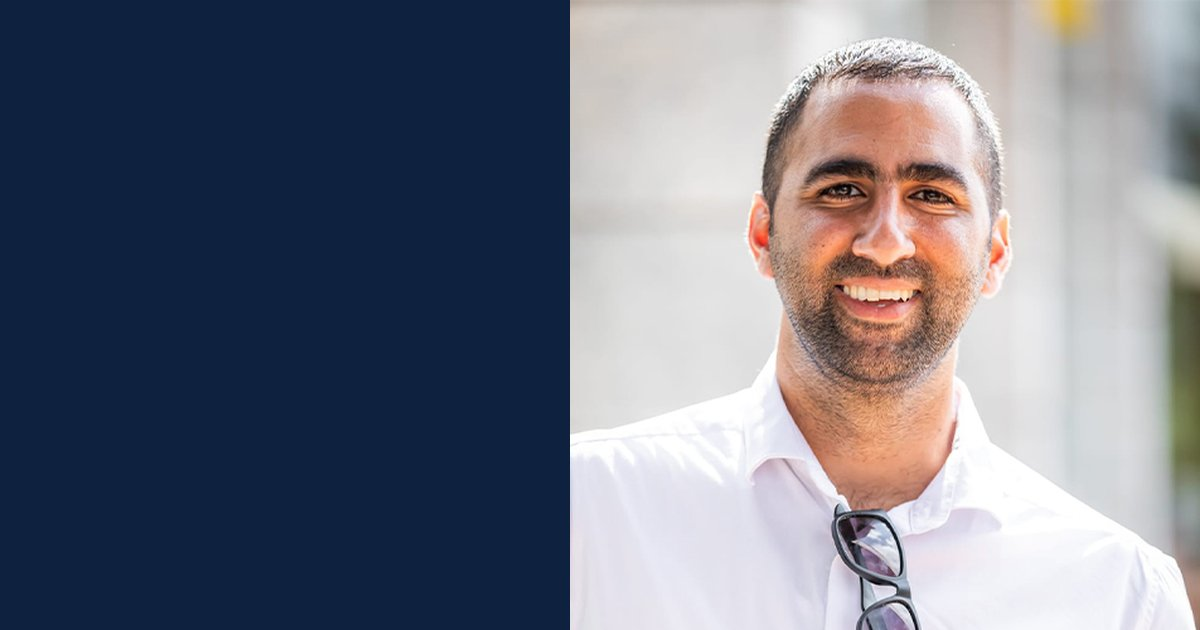
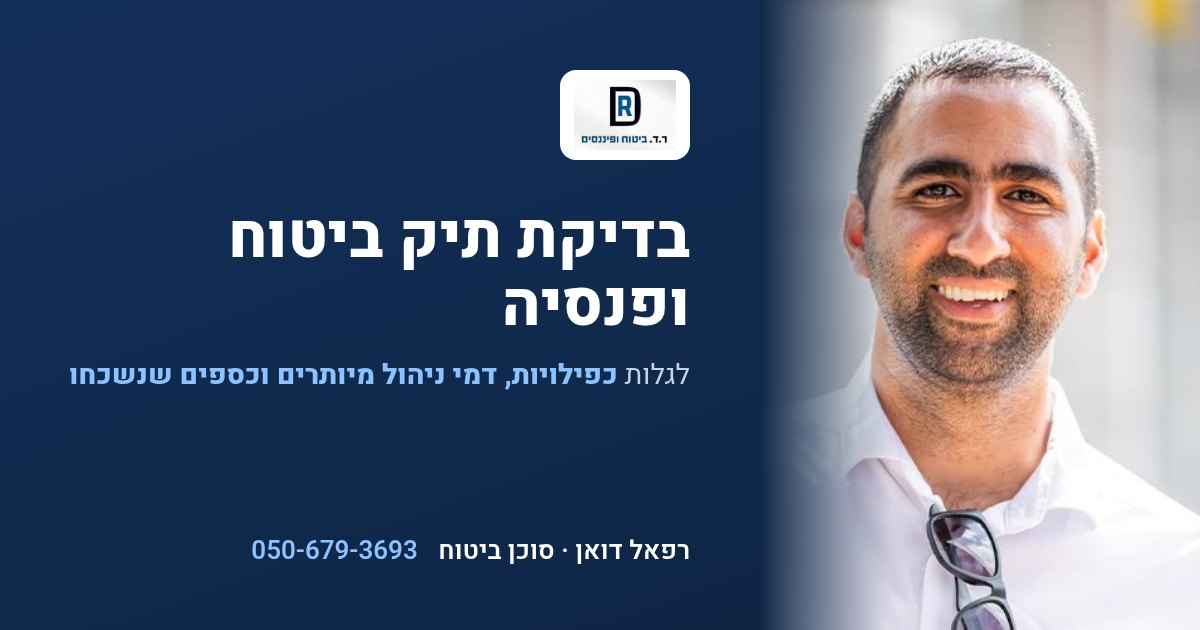
v5: offer-led hero, single primary CTA, grouped services, shorter FAQ, a11y + perf fixes

diff --git a/index.html b/index.html
@@ -4,7 +4,7 @@
 <meta charset="utf-8">
 <meta name="viewport" content="width=device-width, initial-scale=1, viewport-fit=cover">
 <meta name="robots" content="noindex, nofollow">
-<title>רפאל דואן | ר.ד. ביטוח ופיננסים – ביטוח, פנסיה והשקעות</title>
+<title>בדיקת תיק ביטוח ופנסיה | רפאל דואן – ר.ד. ביטוח ופיננסים</title>
 <meta name="description" content="רפאל דואן, ר.ד. ביטוח ופיננסים – סוכן ביטוח, מנהל סיכונים ופיננסים עם ניסיון של למעלה מעשור. ביטוחי בריאות וחיים, פנסיה, גמל, השתלמות, השקעות ואיתור כספי פנסיה. אור יהודה.">
 <meta name="theme-color" content="#0d2340">
 <link rel="canonical" href="https://xbycomm.github.io/rafi-duan/">
@@ -20,8 +20,8 @@
 <link rel="apple-touch-icon" href="assets/icon-192.png">
 <link rel="preconnect" href="https://fonts.googleapis.com">
 <link rel="preconnect" href="https://fonts.gstatic.com" crossorigin>
-<link href="https://fonts.googleapis.com/css2?family=Heebo:wght@300;400;500;600;700;800&display=swap" rel="stylesheet">
-<link rel="stylesheet" href="assets/style.css?v=8">
+<link href="https://fonts.googleapis.com/css2?family=Heebo:wght@400;600;800&display=swap" rel="stylesheet">
+<link rel="stylesheet" href="assets/style.css?v=9">
 <script>document.documentElement.classList.add('js')</script>
 <script type="application/ld+json">
 {"@context":"https://schema.org","@type":"InsuranceAgency","name":"ר.ד. ביטוח ופיננסים – רפאל דואן","description":"סוכן ביטוח, מנהל סיכונים ופיננסים. ביטוחי בריאות, חיים ומחלות קשות, פנסיה, גמל, השתלמות והשקעות.","url":"https://xbycomm.github.io/rafi-duan/","logo":"https://xbycomm.github.io/rafi-duan/assets/logo-rd.jpg","image":"https://xbycomm.github.io/rafi-duan/assets/rafi-duan.jpg","telephone":"+972-50-679-3693","email":"rafiduan@gmail.com","address":{"@type":"PostalAddress","streetAddress":"צאלון 5","addressLocality":"אור יהודה","addressCountry":"IL"},"openingHoursSpecification":[{"@type":"OpeningHoursSpecification","dayOfWeek":["Sunday","Monday","Tuesday","Wednesday","Thursday"],"opens":"09:00","closes":"17:00"},{"@type":"OpeningHoursSpecification","dayOfWeek":"Friday","opens":"09:00","closes":"13:00"}],"sameAs":["https://www.facebook.com/rafi.duan"],"founder":{"@type":"Person","name":"רפאל דואן","jobTitle":"סוכן ביטוח, מנהל סיכונים ופיננסים"}}
@@ -54,23 +54,15 @@
   <symbol id="s-find" viewBox="0 0 32 32"><circle cx="14" cy="14" r="8.5" fill="none" stroke="currentColor" stroke-width="1.8"/><path fill="none" stroke="currentColor" stroke-width="2.2" stroke-linecap="round" d="m20.5 20.5 6 6"/><path fill="none" stroke="currentColor" stroke-width="1.6" stroke-linecap="round" d="M14 9.5v9M11.5 11.5c0-1.2 1.1-2 2.5-2s2.5.8 2.5 2-1.1 1.6-2.5 2-2.5.8-2.5 2 1.1 2 2.5 2 2.5-.8 2.5-2"/></symbol>
 </svg>
 
-<div class="topbar">
-  <div class="wrap topbar-in">
-    <span><svg><use href="#i-clock"/></svg>א׳–ה׳ <bdi dir="ltr">09:00–17:00</bdi> · ו׳ <bdi dir="ltr">09:00–13:00</bdi></span>
-    <span class="tb-hide"><svg><use href="#i-pin"/></svg>צאלון 5, אור יהודה</span>
-    <a href="mailto:rafiduan@gmail.com" class="tb-hide"><svg><use href="#i-mail"/></svg>rafiduan@gmail.com</a>
-  </div>
-</div>
-
 <header class="hdr" id="hdr">
   <div class="wrap hdr-in">
-    <a class="brand" href="#top" aria-label="ר.ד. ביטוח ופיננסים – לראש העמוד"><img src="assets/logo-rd.jpg" width="300" height="205" alt="לוגו ר.ד. ביטוח ופיננסים"></a>
+    <a class="brand" href="#top" aria-label="ר.ד. ביטוח ופיננסים – לראש העמוד"><picture><source srcset="assets/logo-rd-h.webp" type="image/webp"><img src="assets/logo-rd-h.jpg" width="152" height="104" alt="לוגו ר.ד. ביטוח ופיננסים"></picture></a>
     <nav class="nav" aria-label="ניווט ראשי">
-      <a href="#services">תחומי פעילות</a><a href="#check">בדיקת תיק</a><a href="#about">אודות</a><a href="#how">איך זה עובד</a><a href="#words">המלצות</a><a href="#faq">שאלות נפוצות</a>
+      <a href="#services">תחומי פעילות</a><a href="#about">אודות</a><a href="#how">איך זה עובד</a><a href="#words">המלצות</a><a href="#faq">שאלות</a><a href="#contact">צור קשר</a>
     </nav>
     <div class="hdr-cta">
-      <a class="hdr-phone" href="tel:0506793693"><svg><use href="#i-phone"/></svg><span><small>התקשרו עכשיו</small><b dir="ltr">050-679-3693</b></span></a>
-      <a class="btn btn-wa btn-sm wa" data-msg="רפאל שלום, הגעתי מהאתר ואשמח לקבל ייעוץ מקצועי" href="https://wa.me/972506793693" target="_blank" rel="noopener"><svg><use href="#i-wa"/></svg>וואטסאפ</a>
+      <a class="hdr-phone" href="tel:0506793693" aria-label="התקשרו לרפאל: 050-679-3693"><svg><use href="#i-phone"/></svg><span><small>התקשרו עכשיו</small><b dir="ltr">050-679-3693</b></span></a>
+      <a class="btn btn-wa btn-sm wa" data-msg="רפאל שלום, הגעתי מהאתר ואשמח לתאם בדיקת תיק ביטוח ופנסיה" href="https://wa.me/972506793693" target="_blank" rel="noopener"><svg><use href="#i-wa"/></svg>בדיקת תיק</a>
     </div>
   </div>
 </header>
@@ -81,17 +73,12 @@
   <div class="hero-bg" aria-hidden="true"></div>
   <div class="wrap hero-in">
     <div class="hero-copy">
-      <p class="kicker reveal"><span class="dot"></span>ר.ד. ביטוח ופיננסים · סוכן ביטוח ופנסיה</p>
-      <h1 class="reveal d1">הביטוח והפנסיה שלכם,<br><span class="hl">בידיים מקצועיות.</span></h1>
-      <p class="lead reveal d2">אני <strong>רפאל דואן</strong>, סוכן ביטוח, מנהל סיכונים ופיננסים. אני עובר איתכם על כל התמונה – ביטוחים, פנסיה, חיסכון והשקעות – ובונה מעטפת שמתאימה בדיוק למשפחה שלכם.</p>
-      <ul class="ticks reveal d2">
-        <li><svg><use href="#i-check"/></svg>בדיקת כפילויות ופערים בביטוחים הקיימים</li>
-        <li><svg><use href="#i-check"/></svg>איתור כספי פנסיה שנשכחו בקופות</li>
-        <li><svg><use href="#i-check"/></svg>ליווי אישי ושירות זמין לאורך הדרך</li>
-      </ul>
+      <p class="kicker reveal"><span class="dot"></span>רפאל דואן · ר.ד. ביטוח ופיננסים</p>
+      <h1 class="reveal d1">בדיקת תיק ביטוח ופנסיה<span class="h1-sub">כדי לגלות <span class="hl">כפילויות, דמי ניהול מיותרים וכספים שנשכחו.</span></span></h1>
+      <p class="lead reveal d2">אני <strong>רפאל דואן</strong>, סוכן ביטוח, מנהל סיכונים ופיננסים, עם ניסיון של למעלה מעשור ורישיון משרד האוצר לשיווק פנסיוני. עוברים יחד על הביטוחים והחסכונות שלכם – ומקבלים תמונה ברורה.</p>
       <div class="ctas reveal d3">
-        <a class="btn btn-primary btn-lg wa" data-msg="רפאל שלום, הגעתי מהאתר ואשמח לבדיקת תיק ביטוח ופנסיה" href="https://wa.me/972506793693" target="_blank" rel="noopener"><svg><use href="#i-wa"/></svg>לבדיקת התיק שלי</a>
-        <a class="btn btn-ghost btn-lg" href="tel:0506793693"><svg><use href="#i-phone"/></svg><span dir="ltr">050-679-3693</span></a>
+        <a class="btn btn-wa btn-lg wa" data-msg="רפאל שלום, הגעתי מהאתר ואשמח לתאם בדיקת תיק ביטוח ופנסיה" href="https://wa.me/972506793693" target="_blank" rel="noopener"><svg><use href="#i-wa"/></svg>תיאום בדיקת תיק בוואטסאפ</a>
+        <a class="btn btn-ghost btn-lg" href="tel:0506793693" aria-label="או חייגו: 050-679-3693"><svg><use href="#i-phone"/></svg><span dir="ltr">050-679-3693</span></a>
       </div>
     </div>
 
@@ -99,27 +86,24 @@
       <div class="photo">
         <picture><source srcset="assets/rafi-duan.webp" type="image/webp"><img src="assets/rafi-duan.jpg" width="500" height="500" alt="רפאל דואן, סוכן ביטוח ופיננסים" fetchpriority="high"></picture>
       </div>
-      <div class="badge b1"><svg><use href="#i-award"/></svg><div><b>10+ שנים</b><small>ניסיון בענף</small></div></div>
-      <div class="badge b2"><svg><use href="#i-shield"/></svg><div><b>בעל רישיון</b><small>משרד האוצר · שיווק פנסיוני</small></div></div>
-      <form class="quick" id="quickForm" novalidate>
-        <p class="quick-t">דברו איתי – אחזור אליכם</p>
-        <div class="quick-row">
-          <label class="sr" for="qName">שם</label><input id="qName" name="name" placeholder="שם" autocomplete="name" required>
-          <label class="sr" for="qPhone">טלפון</label><input id="qPhone" name="phone" type="tel" inputmode="tel" placeholder="טלפון" autocomplete="tel" required>
-        </div>
-        <button class="btn btn-primary" type="submit"><svg><use href="#i-wa"/></svg>שלחו בוואטסאפ</button>
-        <p class="ferr" role="alert" hidden>נא למלא שם וטלפון תקין.</p>
-      </form>
+      <div class="report" aria-label="מה נבדק בבדיקת התיק">
+        <div class="report-h"><svg><use href="#i-shield"/></svg><div><b>בדיקת תיק</b><small>מה עוברים עליו יחד</small></div></div>
+        <ul>
+          <li><span class="tick"><svg><use href="#i-check"/></svg></span>ביטוחים כפולים</li>
+          <li><span class="tick"><svg><use href="#i-check"/></svg></span>פערים בכיסוי</li>
+          <li><span class="tick"><svg><use href="#i-check"/></svg></span>דמי ניהול בקופות</li>
+          <li><span class="tick"><svg><use href="#i-check"/></svg></span>קופות וכספים שנשכחו</li>
+        </ul>
+      </div>
     </div>
   </div>
 </section>
 
-<section class="trust" aria-label="למה לבחור ברפאל">
+<section class="trust" aria-label="ניסיון והסמכות">
   <div class="wrap trust-in">
-    <div class="t-item reveal"><span class="t-ic"><svg><use href="#i-award"/></svg></span><div><b dir="ltr">10+</b><span>שנות ניסיון בביטוח, פנסיה וניהול סיכונים</span></div></div>
-    <div class="t-item reveal d1"><span class="t-ic"><svg><use href="#i-shield"/></svg></span><div><b>רישיון</b><span>משרד האוצר לשיווק פנסיוני</span></div></div>
-    <div class="t-item reveal d2"><span class="t-ic"><svg><use href="#i-cap"/></svg></span><div><b>B.A</b><span>מנהל עסקים, התמחות במימון</span></div></div>
-    <div class="t-item reveal d3"><span class="t-ic"><svg><use href="#i-user"/></svg></span><div><b>1:1</b><span>יחס אישי – מטפל אחד בכל התיק</span></div></div>
+    <div class="t-item"><span class="t-ic"><svg><use href="#i-award"/></svg></span><div><b dir="ltr">10+</b><span>שנות ניסיון בענף הביטוח</span></div></div>
+    <div class="t-item"><span class="t-ic"><svg><use href="#i-shield"/></svg></span><div><b>רישיון</b><span>משרד האוצר לשיווק פנסיוני</span></div></div>
+    <div class="t-item"><span class="t-ic"><svg><use href="#i-cap"/></svg></span><div><b>B.A</b><span>מנהל עסקים, התמחות במימון</span></div></div>
   </div>
 </section>
 
@@ -127,38 +111,15 @@
   <div class="wrap">
     <div class="sec-head reveal">
       <p class="eyebrow">תחומי פעילות</p>
-      <h2>כל מה שהמשפחה שלכם צריכה, <span class="hl">במקום אחד</span></h2>
-      <p class="sub">ביטוח, פנסיה, חיסכון והשקעות – מטפל אחד שמכיר את כל התמונה ומתאים כל רכיב לצרכים שלכם.</p>
+      <h2>ביטוח, פנסיה והשקעות – <span class="hl">אצל אותו סוכן</span></h2>
     </div>
-    <div class="cards">
-      <article class="card reveal"><span class="ic"><svg><use href="#s-health"/></svg></span><h3>ביטוחי בריאות</h3><p>כיסוי לניתוחים, תרופות, השתלות וטיפולים – בהתאמה לגיל ולמצב המשפחתי.</p><a class="more wa" data-msg="רפאל שלום, אשמח לשמוע על ביטוחי בריאות" href="https://wa.me/972506793693" target="_blank" rel="noopener">לבירור <svg><use href="#i-arrow"/></svg></a></article>
-      <article class="card reveal d1"><span class="ic"><svg><use href="#s-illness"/></svg></span><h3>מחלות קשות</h3><p>סכום חד־פעמי ברגע שהכי צריך אותו, כדי להתמקד בהחלמה ולא בחשבונות.</p><a class="more wa" data-msg="רפאל שלום, אשמח לשמוע על ביטוח מחלות קשות" href="https://wa.me/972506793693" target="_blank" rel="noopener">לבירור <svg><use href="#i-arrow"/></svg></a></article>
-      <article class="card reveal d2"><span class="ic"><svg><use href="#s-life"/></svg></span><h3>ביטוחי חיים</h3><p>הגנה כלכלית על המשפחה ועל המשכנתא, בסכום ובמחיר שמתאימים לכם.</p><a class="more wa" data-msg="רפאל שלום, אשמח לשמוע על ביטוח חיים" href="https://wa.me/972506793693" target="_blank" rel="noopener">לבירור <svg><use href="#i-arrow"/></svg></a></article>
-      <article class="card reveal d3"><span class="ic"><svg><use href="#s-pension"/></svg></span><h3>קרנות פנסיה</h3><p>בחירת קרן ומסלול, בדיקת דמי ניהול וכיסויים ביטוחיים לקראת הפרישה.</p><a class="more wa" data-msg="רפאל שלום, אשמח לבדיקת הפנסיה שלי" href="https://wa.me/972506793693" target="_blank" rel="noopener">לבירור <svg><use href="#i-arrow"/></svg></a></article>
-      <article class="card reveal"><span class="ic"><svg><use href="#s-funds"/></svg></span><h3>קופות גמל וקרנות השתלמות</h3><p>חיסכון לטווח בינוני וארוך, בחירת מסלול השקעה והעברה בין קופות.</p><a class="more wa" data-msg="רפאל שלום, אשמח לשמוע על קופות גמל וקרנות השתלמות" href="https://wa.me/972506793693" target="_blank" rel="noopener">לבירור <svg><use href="#i-arrow"/></svg></a></article>
-      <article class="card reveal d1"><span class="ic"><svg><use href="#s-exec"/></svg></span><h3>ביטוחי מנהלים</h3><p>בדיקה והתאמה של ביטוחי מנהלים קיימים לשכירים ולבעלי שליטה.</p><a class="more wa" data-msg="רפאל שלום, אשמח לשמוע על ביטוח מנהלים" href="https://wa.me/972506793693" target="_blank" rel="noopener">לבירור <svg><use href="#i-arrow"/></svg></a></article>
-      <article class="card reveal d2"><span class="ic"><svg><use href="#s-invest"/></svg></span><h3>השקעות וחיסכון</h3><p>השקעות פרטיות, קופות גמל להשקעה ופוליסות חיסכון – שהכסף יעבוד בשבילכם.</p><a class="more wa" data-msg="רפאל שלום, אשמח לשמוע על השקעות וחיסכון" href="https://wa.me/972506793693" target="_blank" rel="noopener">לבירור <svg><use href="#i-arrow"/></svg></a></article>
-      <article class="card card-accent reveal d3"><span class="ic"><svg><use href="#s-find"/></svg></span><h3>איתור כספי פנסיה</h3><p>בדיקת פנסיה, איתור קופות ישנות ומשיכת כספים שנשכחו.</p><a class="more wa" data-msg="רפאל שלום, אשמח לבדוק אם יש לי כספי פנסיה שנשכחו" href="https://wa.me/972506793693" target="_blank" rel="noopener">בואו נבדוק <svg><use href="#i-arrow"/></svg></a></article>
+    <div class="groups">
+      <article class="group reveal"><span class="ic"><svg><use href="#s-health"/></svg></span><div><h3>ביטוחים</h3><ul class="tags"><li>ביטוחי בריאות</li><li>מחלות קשות</li><li>ביטוחי חיים</li></ul></div></article>
+      <article class="group reveal d1"><span class="ic"><svg><use href="#s-pension"/></svg></span><div><h3>פנסיה וחיסכון</h3><ul class="tags"><li>קרנות פנסיה</li><li>קופות גמל</li><li>קרנות השתלמות</li><li>ביטוחי מנהלים</li></ul></div></article>
+      <article class="group reveal"><span class="ic"><svg><use href="#s-invest"/></svg></span><div><h3>פיננסים והשקעות</h3><ul class="tags"><li>השקעות פרטיות</li><li>קופות גמל להשקעה</li><li>פוליסות חיסכון</li></ul></div></article>
+      <article class="group group-accent reveal d1"><span class="ic"><svg><use href="#s-find"/></svg></span><div><h3>איתור כספי פנסיה</h3><ul class="tags"><li>בדיקת פנסיה</li><li>משיכת כספים מקופות</li></ul></div></article>
     </div>
-  </div>
-</section>
-
-<section class="check" id="check">
-  <div class="wrap check-in">
-    <div class="check-copy reveal">
-      <p class="eyebrow light">בדיקת תיק ביטוח ופנסיה</p>
-      <h2>משלמים על ביטוח כפול?<br>יש לכם קופה <span class="hl-l">שנשכחה?</span></h2>
-      <p>הרבה משפחות מגלות בבדיקה אחת פוליסות כפולות, כיסויים שכבר לא מתאימים וכספים בקופות ישנות. אנחנו עוברים יחד על כל מה שרשום על שמכם – ומקבלים תמונה ברורה ותוכנית מסודרת.</p>
-      <div class="ctas">
-        <a class="btn btn-light btn-lg wa" data-msg="רפאל שלום, אשמח לתאם בדיקת תיק ביטוח ופנסיה" href="https://wa.me/972506793693" target="_blank" rel="noopener"><svg><use href="#i-wa"/></svg>תיאום בדיקה</a>
-      </div>
-    </div>
-    <ul class="check-list reveal d1">
-      <li><span>01</span><div><b>ביטוחים כפולים</b><small>פוליסות שחוזרות על עצמן ועולות לכם כסף מיותר</small></div></li>
-      <li><span>02</span><div><b>פערים בכיסוי</b><small>מה חסר למשפחה – ומה כבר לא רלוונטי</small></div></li>
-      <li><span>03</span><div><b>דמי ניהול</b><small>בדיקת עלויות בקרנות הפנסיה, הגמל וההשתלמות</small></div></li>
-      <li><span>04</span><div><b>כספים שנשכחו</b><small>איתור קופות ישנות מעבודות קודמות</small></div></li>
-    </ul>
+    <p class="services-note reveal">לא בטוחים מה מתאים לכם? <a class="more wa" data-msg="רפאל שלום, יש לי שאלה לגבי הביטוחים / הפנסיה שלי" href="https://wa.me/972506793693" target="_blank" rel="noopener">שאלו אותי בוואטסאפ <svg><use href="#i-arrow"/></svg></a></p>
   </div>
 </section>
 
@@ -166,20 +127,15 @@
   <div class="wrap about-in">
     <div class="about-media reveal">
       <div class="about-photo"><picture><source srcset="assets/rafi-duan.webp" type="image/webp"><img src="assets/rafi-duan.jpg" width="500" height="500" alt="" loading="lazy"></picture></div>
-      <div class="about-logo"><img src="assets/logo-rd.jpg" width="300" height="205" alt="לוגו ר.ד. ביטוח ופיננסים" loading="lazy"></div>
+      <div class="about-logo"><picture><source srcset="assets/logo-rd-h.webp" type="image/webp"><img src="assets/logo-rd-h.jpg" width="152" height="104" alt="לוגו ר.ד. ביטוח ופיננסים" loading="lazy"></picture></div>
     </div>
     <div class="about-copy reveal d1">
       <p class="eyebrow">נעים להכיר</p>
-      <h2>רפאל דואן – <span class="hl">סוכן ביטוח, מנהל סיכונים ופיננסים</span></h2>
-      <p>כבר למעלה מעשור אני מלווה משפחות, שכירים ועצמאים בענף הביטוח, בתכנון פנסיוני ובניהול סיכונים. אני בוגר B.A במנהל עסקים בהתמחות מימון, ובעל רישיון מטעם משרד האוצר לשיווק פנסיוני.</p>
-      <p>כל משפחה בישראל צריכה מעטפת והגנה שמשרתות את הצרכים של היום ושל המחר. התפקיד שלי הוא להתאים לכם את הכיסוי הרחב והמתאים ביותר – עם שירות אישי, מקצועי ופרטני.</p>
-      <blockquote>"אדאג להתאים את הכיסוי הרחב והמתאים ביותר בעבורכם."</blockquote>
-      <ul class="creds">
-        <li><svg><use href="#i-check"/></svg>למעלה מעשור בענף</li>
-        <li><svg><use href="#i-check"/></svg>B.A מנהל עסקים, מימון</li>
-        <li><svg><use href="#i-check"/></svg>רישיון משרד האוצר לשיווק פנסיוני</li>
-        <li><svg><use href="#i-check"/></svg>זמין א׳–ו׳, בטלפון ובוואטסאפ</li>
-      </ul>
+      <h2>רפאל דואן</h2>
+      <p class="role">סוכן ביטוח, מנהל סיכונים ופיננסים</p>
+      <p>בעל ניסיון של למעלה מעשור בענף הביטוח, בתכנון פנסיוני וניהול סיכונים משפחתיים. בוגר B.A במנהל עסקים בהתמחות מימון ובעל רישיון מטעם משרד האוצר לשיווק פנסיוני.</p>
+      <p>במציאות של ימינו כל משפחה בישראל צריכה מעטפת והגנה שישרתו את צרכיה העכשוויים והעתידיים.</p>
+      <blockquote>"אדאג להתאים את הכיסוי הרחב והמתאים ביותר בעבורכם, תוך הקפדה על שירות אישי, מקצועי ופרטני."</blockquote>
     </div>
   </div>
 </section>
@@ -188,13 +144,12 @@
   <div class="wrap">
     <div class="sec-head center reveal">
       <p class="eyebrow">איך זה עובד</p>
-      <h2>ארבעה צעדים <span class="hl">לשקט נפשי</span></h2>
+      <h2>מהשיחה הראשונה <span class="hl">לתמונה ברורה</span></h2>
     </div>
     <ol class="steps">
-      <li class="reveal"><span class="n">1</span><h3>שיחת היכרות</h3><p>שיחה קצרה על המשפחה, הצרכים והיעדים שלכם.</p></li>
-      <li class="reveal d1"><span class="n">2</span><h3>בדיקה מקיפה</h3><p>עוברים על הביטוחים והחסכונות הקיימים – כפילויות, פערים וכספים שנשכחו.</p></li>
-      <li class="reveal d2"><span class="n">3</span><h3>תוכנית מותאמת</h3><p>בונים מעטפת מותאמת ומסבירים כל פוליסה בגובה העיניים.</p></li>
-      <li class="reveal d3"><span class="n">4</span><h3>ליווי לאורך הדרך</h3><p>נשארים זמינים לכל שאלה, שינוי או תביעה – לאורך השנים.</p></li>
+      <li class="reveal"><span class="n">1</span><h3>שיחת היכרות</h3><p>מבינים את המשפחה, הצרכים והיעדים שלכם.</p></li>
+      <li class="reveal d1"><span class="n">2</span><h3>בדיקת התיק</h3><p>עוברים על הביטוחים והחסכונות הקיימים: כפילויות, פערים, דמי ניהול וכספים שנשכחו.</p></li>
+      <li class="reveal d2"><span class="n">3</span><h3>התאמה</h3><p>מתאימים את הכיסוי ומסבירים כל פוליסה בבהירות.</p></li>
     </ol>
   </div>
 </section>
@@ -203,10 +158,10 @@
   <div class="wrap">
     <div class="sec-head center reveal">
       <p class="eyebrow">המלצות</p>
-      <h2>מה הלקוחות <span class="hl">אומרים</span></h2>
+      <h2>לקוחות <span class="hl">מספרים</span></h2>
     </div>
-    <div class="quotes">
-      <figure class="q reveal"><svg class="qm" viewBox="0 0 40 32" aria-hidden="true"><use href="#qmark"/></svg><blockquote>העברתי לרפאל את הטיפול בתיק הביטוחים שלי אחרי הרבה שנים שעבדתי עם סוכנים אחרים, ואני יכול להגיד שהוא סוכן ברמה גבוהה מאוד. הוא עשה עבודה יסודית ומקצועית ונתן לי יחס אישי.</blockquote><figcaption><span class="av">ג</span>גבריאל מור</figcaption></figure>
+    <div class="quotes" tabindex="0" aria-label="המלצות לקוחות – ניתן לגלול הצידה">
+            <figure class="q reveal"><svg class="qm" viewBox="0 0 40 32" aria-hidden="true"><use href="#qmark"/></svg><blockquote>העברתי לרפאל את הטיפול בתיק הביטוחים שלי אחרי הרבה שנים שעבדתי עם סוכנים אחרים, ואני יכול להגיד שהוא סוכן ברמה גבוהה מאוד. הוא עשה עבודה יסודית ומקצועית ונתן לי יחס אישי.</blockquote><figcaption><span class="av">ג</span>גבריאל מור</figcaption></figure>
       <figure class="q reveal d1"><svg class="qm" viewBox="0 0 40 32" aria-hidden="true"><use href="#qmark"/></svg><blockquote>רפאל הוא אמין, מקצועי, יעיל, קשוב וזמין לכל שאלה. פשוט עשה לי סדר בחיים והוזיל לי עלויות.</blockquote><figcaption><span class="av">ד</span>דקלה הלוי</figcaption></figure>
       <figure class="q reveal d2"><svg class="qm" viewBox="0 0 40 32" aria-hidden="true"><use href="#qmark"/></svg><blockquote>ליווה אותי בכל השיחות, עזר לי לפתור בעיות תוך זמן קצר ומצא תנאים טובים יותר לביטוחים הקיימים שלי.</blockquote><figcaption><span class="av">מ</span>מירב יעקב</figcaption></figure>
       <figure class="q reveal"><svg class="qm" viewBox="0 0 40 32" aria-hidden="true"><use href="#qmark"/></svg><blockquote>הקפיד להסביר כל פוליסה בבהירות והתאים את הכיסוי בדיוק לצרכים שלנו.</blockquote><figcaption><span class="av">מ</span>מיכל ודני כהן</figcaption></figure>
@@ -221,17 +176,12 @@
   <div class="wrap faq-in">
     <div class="faq-head reveal">
       <p class="eyebrow">שאלות נפוצות</p>
-      <h2>יש שאלה? <span class="hl">כנראה שיש לה תשובה</span></h2>
-      <p class="sub">לא מצאתם את מה שחיפשתם? אפשר פשוט לשאול אותי.</p>
-      <a class="btn btn-primary wa" data-msg="רפאל שלום, יש לי שאלה" href="https://wa.me/972506793693" target="_blank" rel="noopener"><svg><use href="#i-wa"/></svg>שאלו אותי בוואטסאפ</a>
+      <h2>לפני <span class="hl">שמתחילים</span></h2>
     </div>
     <div class="faq-list reveal d1">
-      <details open><summary>מה בודקים בבדיקת תיק ביטוח ופנסיה?</summary><p>עוברים יחד על הביטוחים, קרנות הפנסיה, קופות הגמל וקרנות ההשתלמות שרשומים על שמכם: מאתרים ביטוחים כפולים, פערים בכיסוי, דמי ניהול וקופות ישנות – ובונים תוכנית מסודרת.</p></details>
-      <details><summary>איך יודעים אם יש לי כספי פנסיה שנשכחו?</summary><p>כספים נשכחים לרוב בקופות מעבודות קודמות. בעזרת המאגרים הרשמיים (כמו המסלקה הפנסיונית ו"הר הכסף") אפשר לראות אילו קופות פתוחות על שמכם, ואני מלווה אתכם באיחוד הקופות או במשיכת הכספים כשזה אפשרי.</p></details>
-      <details><summary>מה זה "הר הביטוח"?</summary><p>מאגר של משרד האוצר שמרכז את פוליסות הביטוח הפעילות על שמכם. זו נקודת פתיחה מצוינת לבדיקה – ביחד מבינים מה כל פוליסה מכסה, ואם יש כפילויות.</p></details>
-      <details><summary>מה צריך להכין לפגישה?</summary><p>מספיק תעודת זהות ופרטים בסיסיים על הביטוחים והחסכונות שאתם מכירים. את שאר המידע אוספים יחד מהמאגרים הרשמיים.</p></details>
-      <details><summary>אפשר להיפגש או לעשות הכול מרחוק?</summary><p>שתי האפשרויות פתוחות – פגישה במשרד בצאלון 5 באור יהודה, או שיחה בטלפון ובוואטסאפ.</p></details>
-      <details><summary>מה שעות הפעילות?</summary><p>ימים א׳–ה׳ <bdi dir="ltr">09:00–17:00</bdi>, ויום ו׳ <bdi dir="ltr">09:00–13:00</bdi>. אפשר להשאיר הודעה בוואטסאפ בכל שעה ואחזור אליכם.</p></details>
+      <details open><summary>מה עוברים עליו בבדיקת תיק?</summary><p>את הביטוחים, קרנות הפנסיה, קופות הגמל וקרנות ההשתלמות שלכם – כדי לזהות ביטוחים כפולים, פערים בכיסוי, דמי ניהול וקופות ישנות.</p></details>
+      <details><summary>באילו תחומים רפאל מטפל?</summary><p>ביטוחי בריאות, מחלות קשות וביטוחי חיים; קרנות פנסיה, קופות גמל, קרנות השתלמות וביטוחי מנהלים; השקעות פרטיות, קופות גמל להשקעה ופוליסות חיסכון; ואיתור כספי פנסיה ומשיכת כספים מקופות.</p></details>
+      <details><summary>מה הניסיון וההסמכות של רפאל?</summary><p>למעלה מעשור בענף הביטוח, בתכנון פנסיוני וניהול סיכונים משפחתיים. בוגר B.A במנהל עסקים בהתמחות מימון, ובעל רישיון מטעם משרד האוצר לשיווק פנסיוני.</p></details>
     </div>
   </div>
 </section>
@@ -240,8 +190,8 @@
   <div class="wrap contact-in">
     <div class="contact-copy reveal">
       <p class="eyebrow light">צור קשר</p>
-      <h2>הצעד הראשון הוא <span class="hl-l">שיחה אחת.</span></h2>
-      <p class="sub-l">השאירו פרטים ואחזור אליכם, או פנו ישירות בטלפון ובוואטסאפ.</p>
+      <h2>בואו נתאם <span class="hl-l">בדיקת תיק</span></h2>
+      <p class="sub-l">השאירו פרטים ואחזור אליכם, או חייגו ישירות.</p>
       <ul class="clist">
         <li><span><svg><use href="#i-phone"/></svg></span><div><small>טלפון</small><a href="tel:0506793693" dir="ltr">050-679-3693</a></div></li>
         <li><span><svg><use href="#i-mail"/></svg></span><div><small>דוא"ל</small><a href="mailto:rafiduan@gmail.com">rafiduan@gmail.com</a></div></li>
@@ -278,10 +228,10 @@
   <div class="wrap">
     <div class="foot-grid">
       <div class="foot-brand">
-        <span class="foot-logo"><img src="assets/logo-rd.jpg" width="300" height="205" alt="לוגו ר.ד. ביטוח ופיננסים" loading="lazy"></span>
+        <span class="foot-logo"><picture><source srcset="assets/logo-rd-h.webp" type="image/webp"><img src="assets/logo-rd-h.jpg" width="152" height="104" alt="לוגו ר.ד. ביטוח ופיננסים" loading="lazy"></picture></span>
         <p>רפאל דואן – סוכן ביטוח, מנהל סיכונים ופיננסים. ביטוח, פנסיה, חיסכון והשקעות בהתאמה אישית.</p>
       </div>
-      <div><h4>תחומי פעילות</h4><ul><li><a href="#services">ביטוחי בריאות וחיים</a></li><li><a href="#services">פנסיה, גמל והשתלמות</a></li><li><a href="#services">השקעות וחיסכון</a></li><li><a href="#check">בדיקת תיק ואיתור כספים</a></li></ul></div>
+      <div><h4>תחומי פעילות</h4><ul><li><a href="#services">ביטוחי בריאות וחיים</a></li><li><a href="#services">פנסיה, גמל והשתלמות</a></li><li><a href="#services">השקעות וחיסכון</a></li><li><a href="#top">בדיקת תיק ואיתור כספים</a></li></ul></div>
       <div><h4>ניווט</h4><ul><li><a href="#about">אודות</a></li><li><a href="#how">איך זה עובד</a></li><li><a href="#words">המלצות</a></li><li><a href="#faq">שאלות נפוצות</a></li></ul></div>
       <div><h4>יצירת קשר</h4><ul><li><a href="tel:0506793693" dir="ltr">050-679-3693</a></li><li><a href="mailto:rafiduan@gmail.com">rafiduan@gmail.com</a></li><li>צאלון 5, אור יהודה</li><li><a href="https://www.facebook.com/rafi.duan" target="_blank" rel="noopener">פייסבוק</a></li></ul></div>
     </div>
@@ -294,9 +244,9 @@
 
 <nav class="dock" aria-label="יצירת קשר מהירה">
   <a href="tel:0506793693" class="d-call"><svg><use href="#i-phone"/></svg>חיוג</a>
-  <a href="https://wa.me/972506793693" data-msg="רפאל שלום, הגעתי מהאתר ואשמח לקבל ייעוץ מקצועי" target="_blank" rel="noopener" class="d-wa wa"><svg><use href="#i-wa"/></svg>וואטסאפ</a>
+  <a href="https://wa.me/972506793693" data-msg="רפאל שלום, הגעתי מהאתר ואשמח לתאם בדיקת תיק ביטוח ופנסיה" target="_blank" rel="noopener" class="d-wa wa"><svg><use href="#i-wa"/></svg>וואטסאפ</a>
 </nav>
 
-<script src="assets/main.js?v=6" defer></script>
+<script src="assets/main.js?v=9" defer></script>
 </body>
 </html>

diff --git a/assets/style.css b/assets/style.css
@@ -2,8 +2,8 @@
 :root{
  --navy:#0d2340;--navy-2:#13305a;--navy-3:#1b3d6e;
  --blue:#1d5fa0;--blue-d:#164c82;--blue-l:#e8f0fa;--blue-50:#f3f6fa;
- --ink:#14223a;--ink-2:#45546b;--ink-3:#6b788c;--line:#dde4ee;--white:#fff;
- --gold:#e0a43b;--wa:#1faa59;--wa-d:#178a47;
+ --ink:#14223a;--ink-2:#45546b;--ink-3:#566376;--line:#dde4ee;--white:#fff;
+ --gold:#e0a43b;--wa:#128c4b;--wa-d:#0e7340;
  --r:16px;--r-s:10px;--sh:0 1px 2px rgba(13,35,64,.06),0 8px 24px rgba(13,35,64,.07);
  --sh-l:0 20px 50px rgba(13,35,64,.16);--wrap:1180px;
  --f:'Heebo',system-ui,-apple-system,'Segoe UI',Arial,sans-serif;
@@ -96,7 +96,7 @@ input:focus{outline:none;border-color:var(--blue);box-shadow:0 0 0 4px rgba(29,9
 
 /* trust strip */
 .trust{background:#fff;border-block:1px solid var(--line)}
-.trust-in{display:grid;grid-template-columns:repeat(4,1fr)}
+.trust-in{display:grid;grid-template-columns:repeat(3,1fr)}
 .t-item{display:flex;align-items:center;gap:14px;padding:26px 20px}
 .t-item+.t-item{border-inline-start:1px solid var(--line)}
 .t-ic svg{font-size:24px;color:var(--blue);background:var(--blue-l);width:50px;height:50px;padding:13px;border-radius:14px}
@@ -163,8 +163,8 @@ h2{font-size:clamp(30px,3.4vw,44px)}
 
 /* how */
 .how{background:var(--blue-50)}
-.steps{display:grid;grid-template-columns:repeat(4,1fr);gap:20px;counter-reset:s;position:relative}
-.steps::before{content:"";position:absolute;top:34px;right:12%;left:12%;height:2px;background:repeating-linear-gradient(90deg,var(--line) 0 8px,transparent 8px 14px)}
+.steps{display:grid;grid-template-columns:repeat(3,1fr);gap:20px;counter-reset:s;position:relative}
+.steps::before{content:"";position:absolute;top:34px;right:16%;left:16%;height:2px;background:repeating-linear-gradient(90deg,var(--line) 0 8px,transparent 8px 14px)}
 .steps li{position:relative;text-align:center;background:#fff;border:1px solid var(--line);border-radius:var(--r);padding:0 22px 28px;margin-top:34px}
 .steps .n{display:grid;place-items:center;width:68px;height:68px;margin:-34px auto 18px;border-radius:50%;background:var(--blue);color:#fff;font-size:26px;font-weight:800;box-shadow:0 0 0 8px var(--blue-50)}
 .steps h3{font-size:19px;margin-bottom:8px}
@@ -296,4 +296,77 @@ h2{font-size:clamp(30px,3.4vw,44px)}
  .dock svg{font-size:20px}
  .d-call{background:var(--blue);color:#fff}
  .d-wa{background:var(--wa);color:#fff}
+}
+
+/* ===== v5 ===== */
+.brand img{height:52px;width:auto}
+.hero h1{font-size:clamp(34px,4.4vw,56px)}
+.h1-sub{display:block;font-size:.5em;font-weight:600;line-height:1.35;color:var(--ink-2);margin-top:14px;letter-spacing:0}
+.h1-sub .hl{font-weight:800}
+.lead{margin-bottom:30px}
+/* hero "check report" card – signature element */
+.report{position:absolute;z-index:3;left:-36px;bottom:-30px;width:250px;background:#fff;border-radius:18px;box-shadow:var(--sh-l);border:1px solid var(--line);padding:16px 18px 14px;transform:rotate(-2deg)}
+.report::before{content:"";position:absolute;top:-7px;left:50%;width:56px;height:14px;margin-left:-28px;background:var(--blue-l);border-radius:4px;opacity:.9}
+.report-h{display:flex;align-items:center;gap:10px;padding-bottom:10px;margin-bottom:8px;border-bottom:1px dashed var(--line)}
+.report-h svg{font-size:20px;color:#fff;background:var(--blue);width:36px;height:36px;padding:8px;border-radius:10px}
+.report-h b{display:block;font-size:16px;color:var(--navy);line-height:1.2}
+.report-h small{font-size:12.5px;color:var(--ink-3)}
+.report li{display:flex;align-items:center;gap:10px;padding:6px 0;font-size:15px;font-weight:600;color:var(--navy)}
+.report .tick{display:grid;place-items:center;width:22px;height:22px;border-radius:6px;border:1.5px solid var(--wa);color:var(--wa)}
+.report .tick svg{font-size:14px}
+.photo{aspect-ratio:1/1.05}
+.photo::after{height:28%}
+/* service groups */
+.groups{display:grid;grid-template-columns:repeat(2,1fr);gap:18px}
+.group{display:flex;gap:20px;align-items:flex-start;background:#fff;border:1px solid var(--line);border-radius:var(--r);padding:26px 24px;transition:box-shadow .25s,transform .25s}
+.group:hover{box-shadow:var(--sh-l);transform:translateY(-3px)}
+.group .ic svg{font-size:28px;color:var(--blue);background:var(--blue-l);width:56px;height:56px;padding:14px;border-radius:16px}
+.group h3{font-size:20px;margin:4px 0 12px}
+.tags{display:flex;flex-wrap:wrap;gap:8px}
+.tags li{font-size:14.5px;font-weight:600;color:var(--ink-2);background:var(--blue-50);border:1px solid var(--line);border-radius:99px;padding:5px 12px}
+.group-accent{background:linear-gradient(160deg,var(--navy-3),var(--navy));border-color:transparent}
+.group-accent h3{color:#fff}
+.group-accent .ic svg{background:rgba(255,255,255,.12);color:#8cc2ff}
+.group-accent .tags li{background:rgba(255,255,255,.08);border-color:rgba(255,255,255,.16);color:#dbe6f5}
+.services-note{margin-top:26px;color:var(--ink-2);display:flex;gap:10px;align-items:center;flex-wrap:wrap}
+.services-note .more{margin-top:0}
+.sec-head{margin-bottom:40px}
+.about .role{font-size:19px;font-weight:600;color:var(--blue);margin:-12px 0 18px}
+.faq-in{align-items:start}
+@media (max-width:960px){.report{left:-10px;bottom:-24px}.steps{grid-template-columns:repeat(3,1fr)}}
+@media (max-width:640px){
+ .sec{padding:60px 0}
+ .hero-in{padding:28px 16px 64px;gap:56px}
+ .hero h1{font-size:31px}
+ .h1-sub{font-size:19px}
+ .hero-visual{max-width:330px}
+ .report{width:206px;left:-8px;bottom:-34px;padding:12px 14px 10px}
+ .report li{font-size:13.5px;padding:4px 0}
+ .trust-in{grid-template-columns:repeat(3,1fr)}
+ .t-item{padding:16px 8px;align-items:center;text-align:center}
+ .t-item+.t-item{border-inline-start:1px solid var(--line)}
+ .t-item:nth-child(n+3){border-top:0}
+ .t-ic{display:none}
+ .t-item span{font-size:12.5px}
+ .groups{grid-template-columns:1fr;gap:12px}
+ .group{padding:18px 16px;gap:14px}
+ .group .ic svg{width:46px;height:46px;padding:11px}
+ .group h3{font-size:18px;margin:2px 0 8px}
+ .tags li{font-size:13.5px;padding:4px 10px}
+ .steps{grid-template-columns:1fr;row-gap:12px}
+ .steps li{display:grid;grid-template-columns:52px 1fr;column-gap:14px;text-align:right;padding:16px;margin-top:0;align-items:start}
+ .steps .n{width:44px;height:44px;margin:0;font-size:19px;box-shadow:none;grid-row:span 2}
+ .steps h3{margin:2px 0 4px}
+ .quotes{display:flex;overflow-x:auto;scroll-snap-type:x mandatory;gap:12px;margin:0 -16px;padding:4px 16px 14px;scrollbar-width:thin}
+ .quotes .q{flex:0 0 84%;scroll-snap-align:center;padding:22px}
+ .about-in{gap:40px}
+ .about-media{max-width:300px}
+ .contact-in{padding:60px 16px;gap:36px}
+}
+@media (max-width:640px){
+ .about-media{display:none}
+ .foot{padding:48px 0 24px}
+ .foot-grid{grid-template-columns:1fr 1fr;gap:28px}
+ .foot-grid>div:nth-child(2){display:none}
+ .foot-brand{text-align:center}.foot-brand p{margin:0 auto}
 }

diff --git a/SITE.md b/SITE.md
@@ -74,3 +74,4 @@ v3 נמנע מכל אלה:
 - 2026-11-20 – v3.1: תיקון ריווח כרטיסי bento במובייל.
 - 2026-11-21 – v4: עיצוב מקצועי בסגנון חברות ביטוח מובילות (נייבי/כחול מהלוגו, Heebo, פס אמון, 8 שירותים, בדיקת תיק, FAQ, טופס מהיר ב-hero). v3 נשמר ב-git (0ebab45).
 - 2026-11-21 – v4 נערך ע"י בני דרך Claude Code (cd0c5e6); גובה ל-sites\rafi-duan ונדחף ל-GitHub.
+- 2026-11-21 – v5 (על בסיס v4 של בני, לפי הביקורת שאושרה): כותרת ממוקדת הצעה ("בדיקת תיק ביטוח ופנסיה"), CTA ראשי אחד (וואטסאפ – תיאום בדיקת תיק) + טלפון משני, הוסר הטופס מה-hero (טופס אחד בתחתית), כרטיס "בדיקת תיק" ייחודי על התמונה, 8 שירותים אוחדו ל-4 קבוצות (רק תחומים מהעמוד המקורי), FAQ קוצר ל-3 שאלות מבוססות עובדות, הוסרו טענות לא מאומתות (1:1, שכירים ועצמאים, פגישות מרחוק, הר הכסף/מסלקה, 'זמין לכל תביעה', תיאורי שירות מומצאים), הוסר פס עליון ושעות כפולות (שעות מוצגות פעם אחת ב'צור קשר'), המלצות בגלילה אופקית במובייל, נגישות (ירוק וואטסאפ #128c4b, אפור כהה יותר, aria-label לטלפון), Heebo ב-3 משקלים, לוגו מוקטן + WebP (ללא שינוי מראה), תמונת OG חדשה, נמחק contours.svg.
